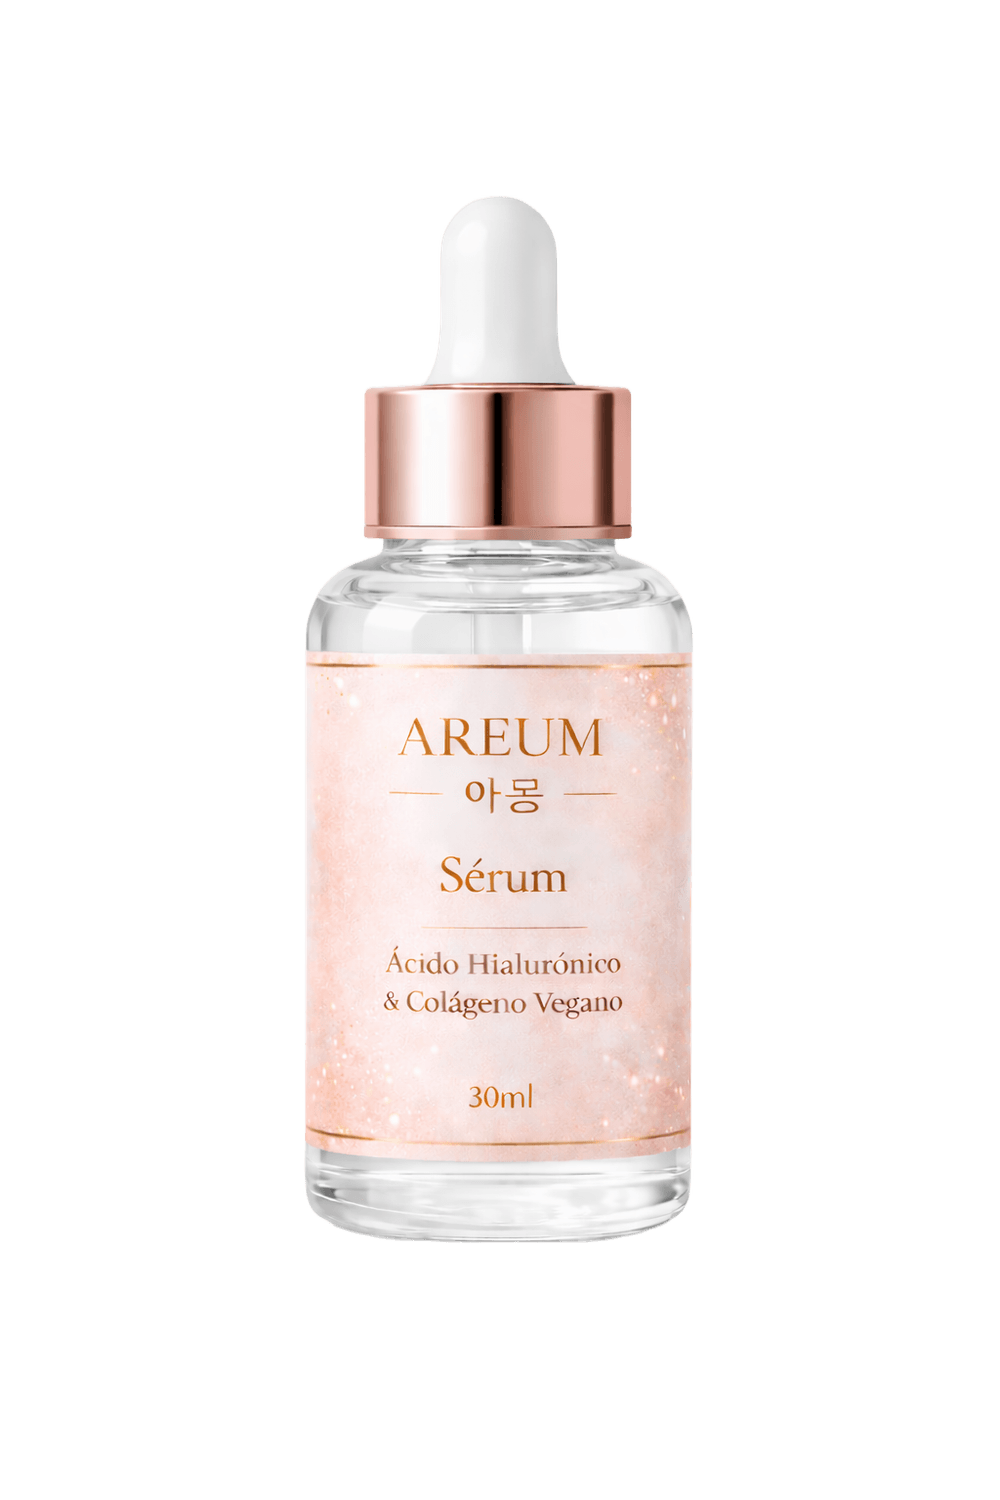
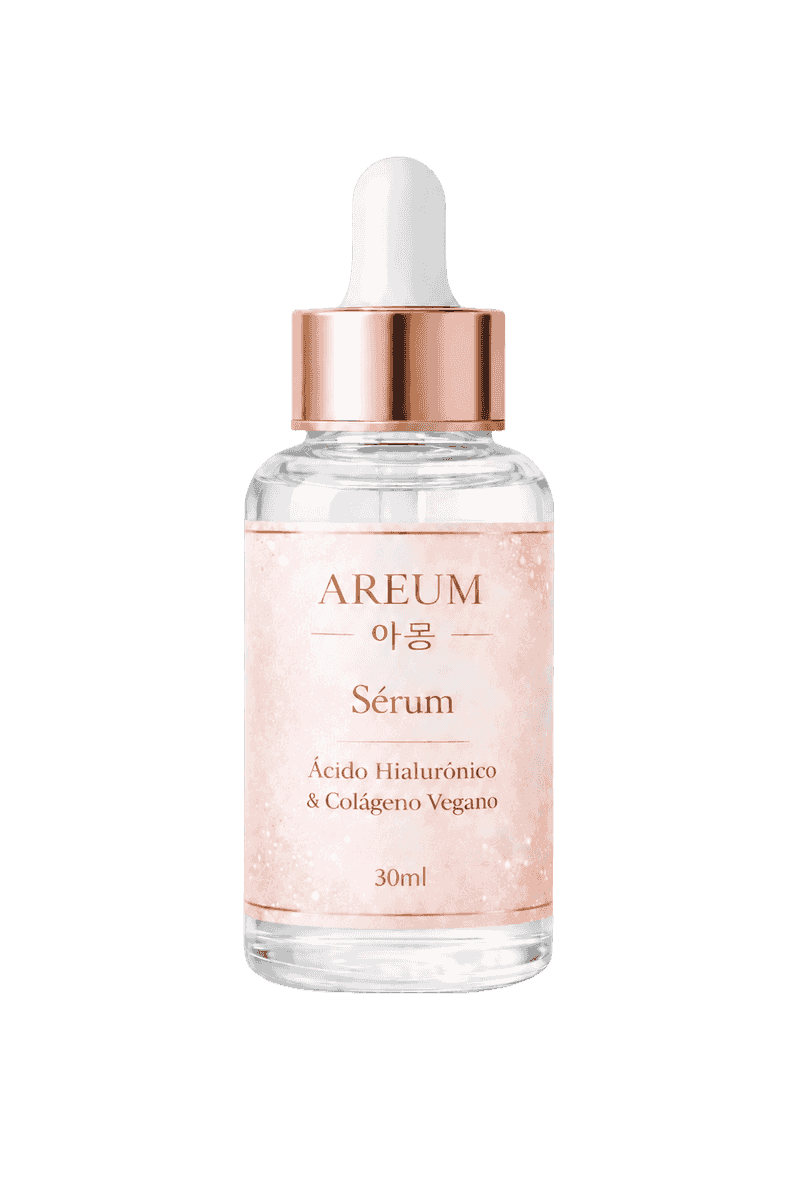
fix: replace product image with correct one and remove city from testimonials
- Replace areum-serum.png with correct product image (frente.png from Certificados Gabi)
- Regenerate WebP (37KB) and palette PNG fallback (42KB)
- Remove city/location from testimonials per request

diff --git a/src/components/Testimonials.tsx b/src/components/Testimonials.tsx
@@ -4,21 +4,18 @@ import { BadgeCheck, Quote, Star } from "lucide-react";
 const testimonials = [
   {
     name: "Cristiane",
-    location: "São Paulo, SP",
     date: "Nov 2025",
     rating: 5,
     text: "Sinceramente, me surpreendeu. Minha pele estava bem apagada e agora sinto ela com um viço bonito, aquele brilho saudável que a gente vê nos doramas.",
   },
   {
     name: "Ema Ramos",
-    location: "Rio de Janeiro, RJ",
     date: "Nov 2025",
     rating: 5,
-    text: "Gostei bastante da textura. Absorve rápido e não fica pegajoso. Tenho sentido meu rosto mais firme e hidratado desde que comecei a usar.",
+    text: "Gostei bastante da textura. Absorbe rápido e não fica pegajoso. Tenho sentido meu rosto mais firme e hidratado desde que comecei a usar.",
   },
   {
     name: "Maria Gabriela",
-    location: "Belo Horizonte, MG",
     date: "Dez 2025",
     rating: 5,
     text: "Valeu o investimento. Sinto um efeito lifting leve e muita gente tem comentado que minha pele está bonita. Recomendo.",
@@ -71,7 +68,7 @@ const Testimonials = () => {
               <div className="flex items-center justify-between gap-3 border-t border-primary/10 pt-4">
                 <div>
                   <p className="font-heading text-lg font-semibold text-foreground">{testimonial.name}</p>
-                  <p className="text-xs text-muted-foreground">{testimonial.location} • {testimonial.date}</p>
+                  <p className="text-xs text-muted-foreground">{testimonial.date}</p>
                 </div>
                 <span className="inline-flex items-center gap-1 text-xs font-medium text-primary">
                   <BadgeCheck className="h-4 w-4" />